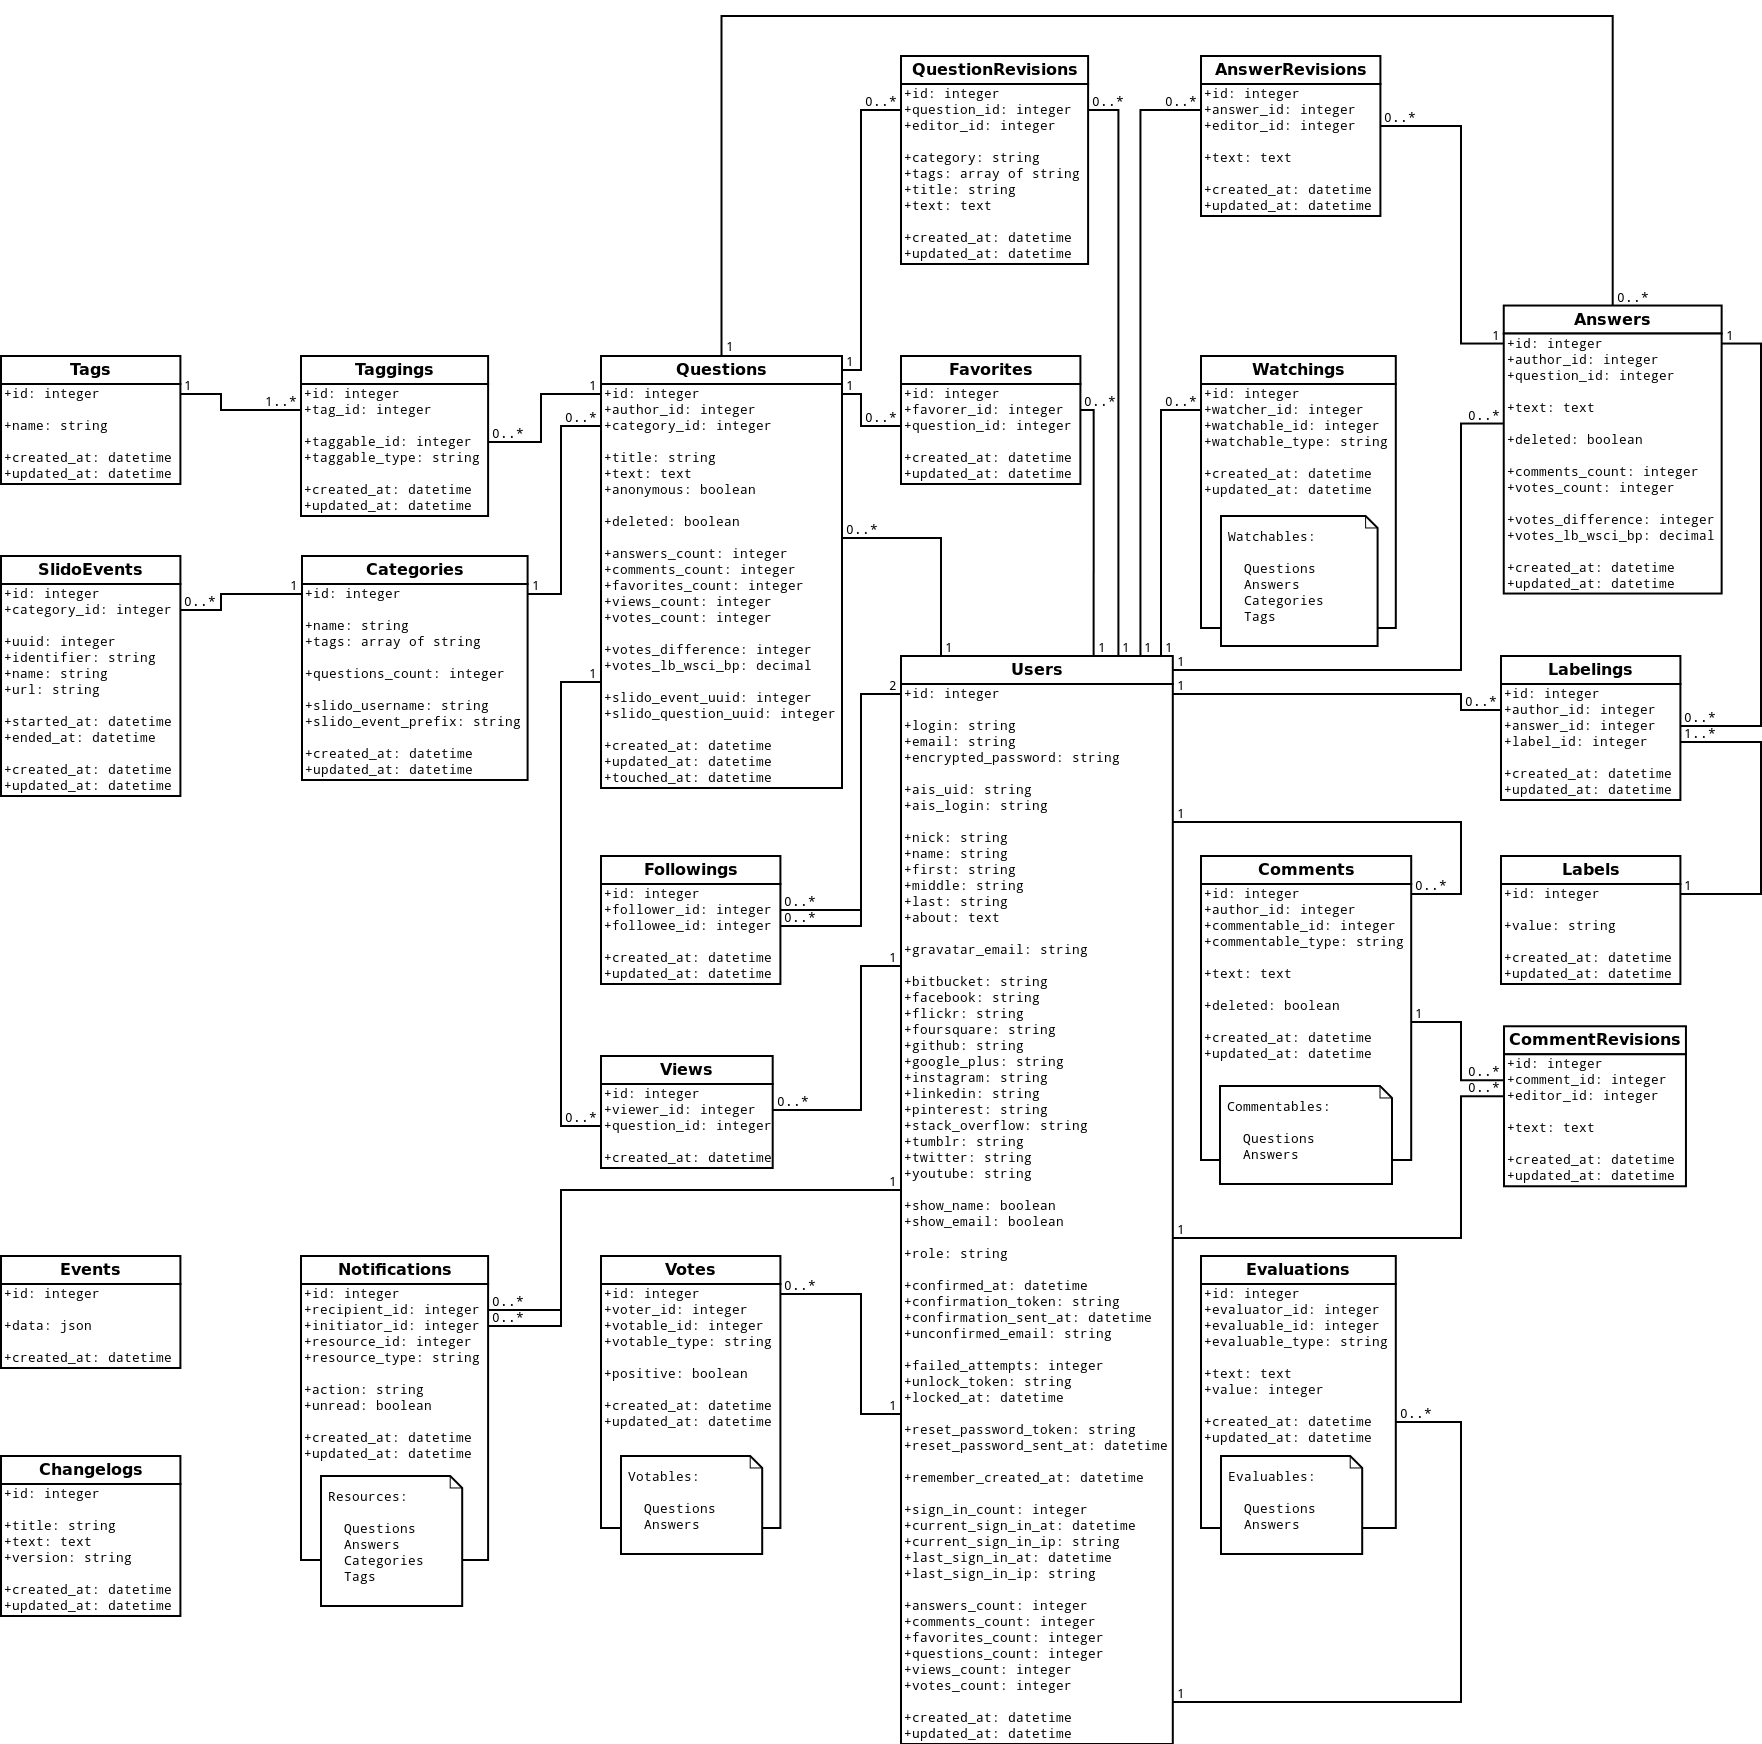
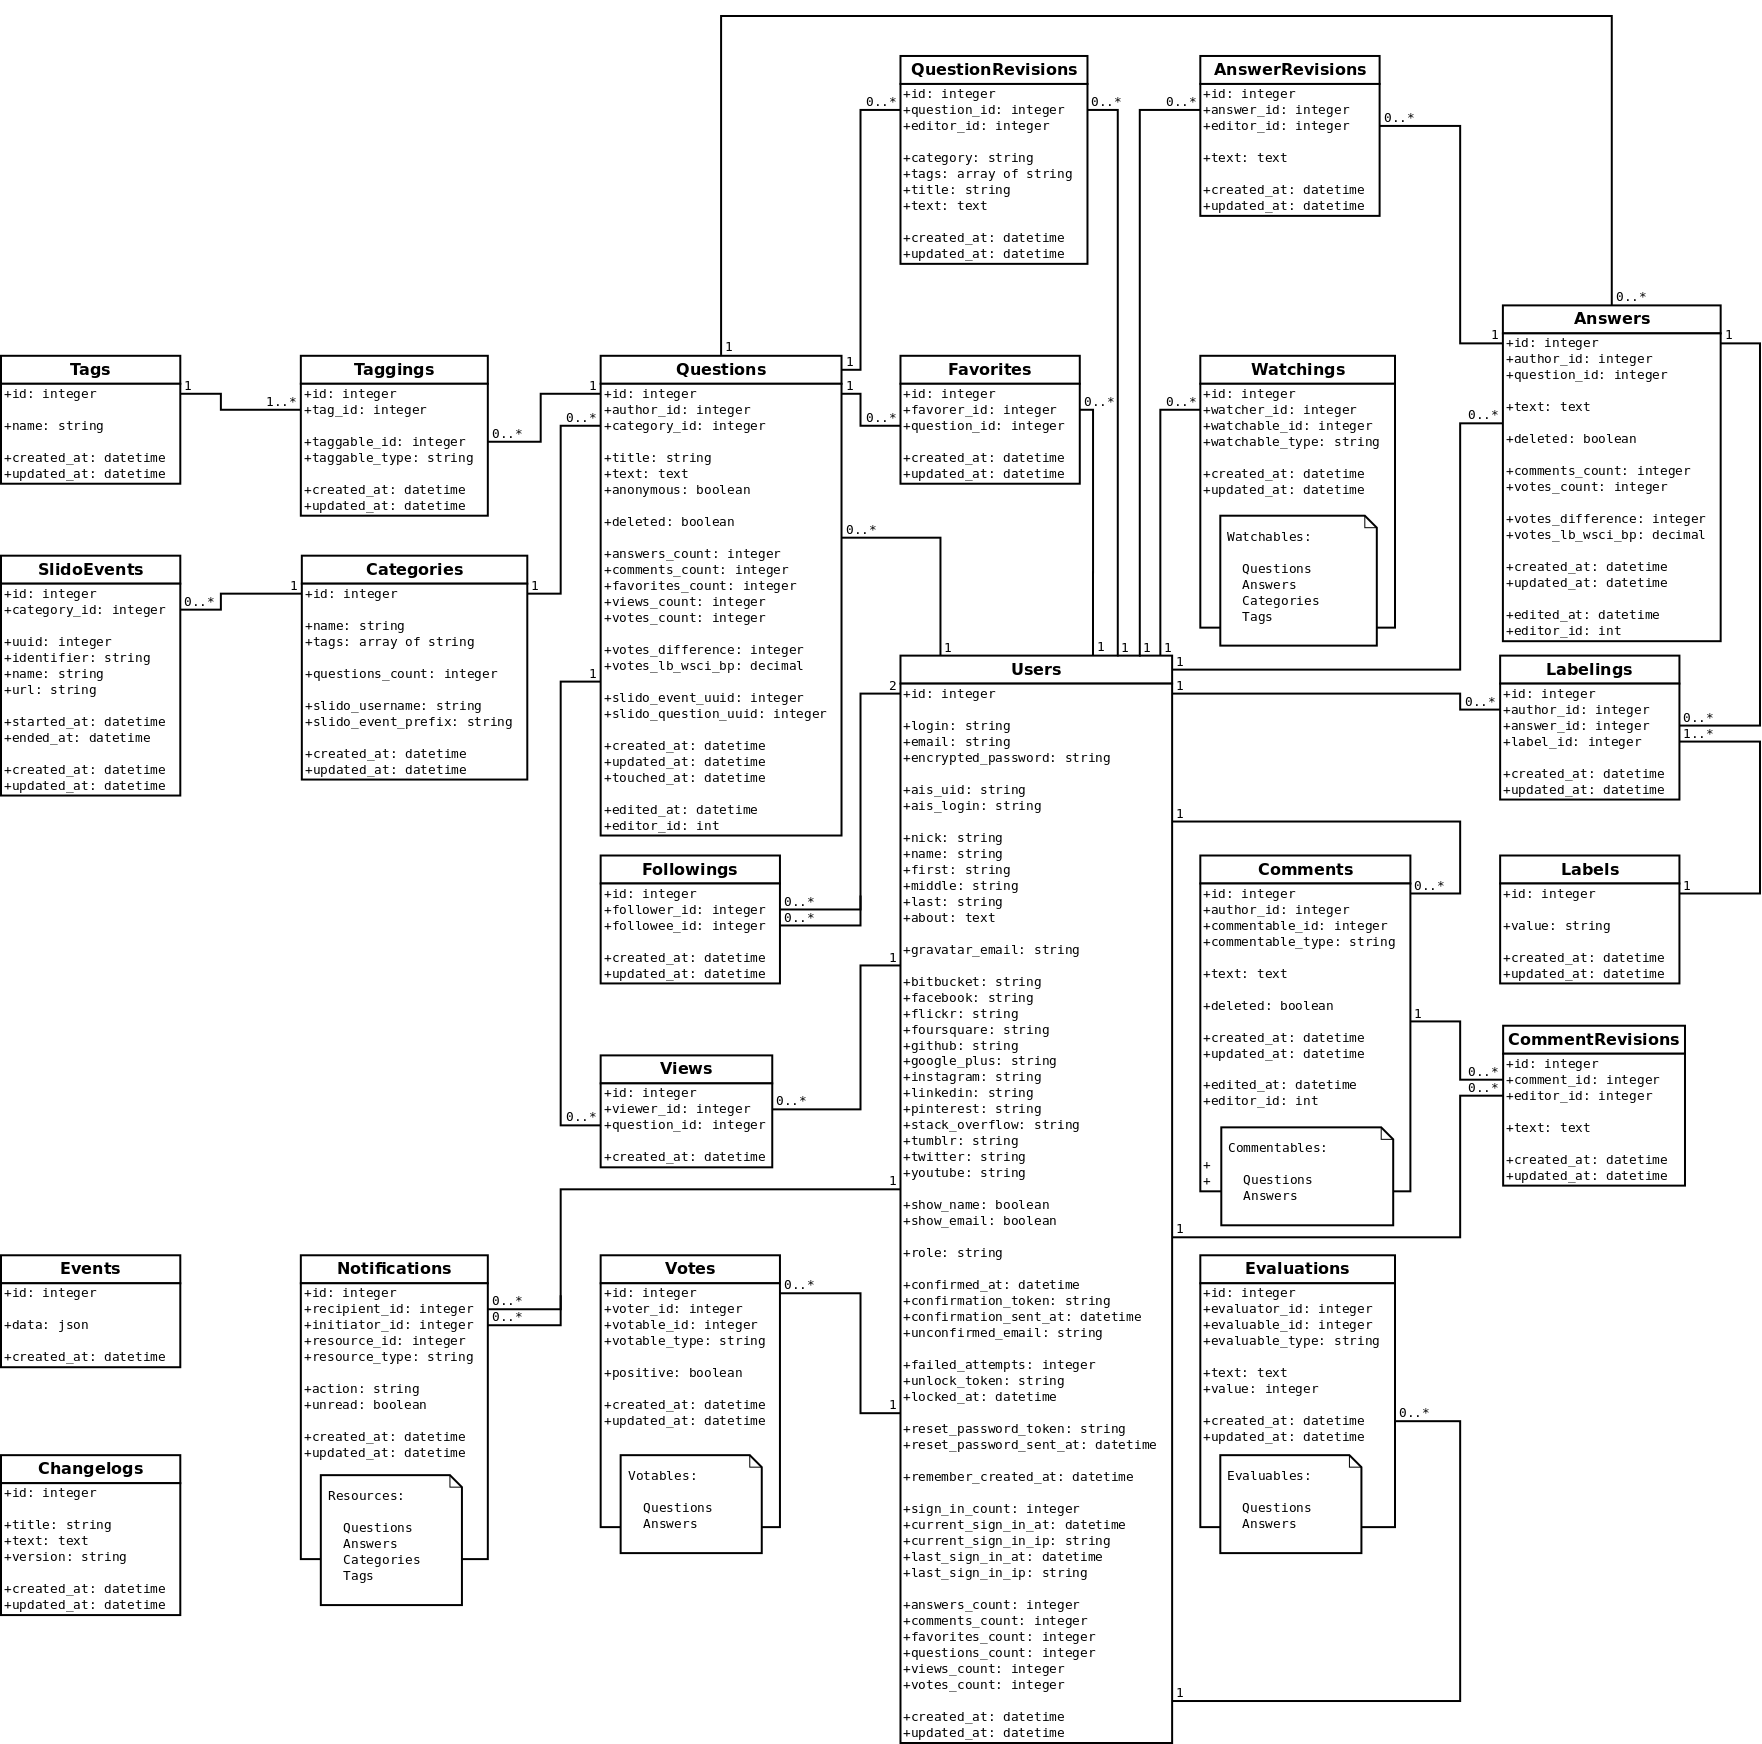
Add migration to add edited_at and editor

diff --git a/db/schema.rb b/db/schema.rb
@@ -11,7 +11,7 @@
 #
 # It's strongly recommended that you check this file into your version control system.
 
-ActiveRecord::Schema.define(version: 20140305114254) do
+ActiveRecord::Schema.define(version: 20140310223035) do
 
   # These are extensions that must be enabled in order to support this database
   enable_extension "plpgsql"
@@ -38,6 +38,8 @@ ActiveRecord::Schema.define(version: 20140305114254) do
     t.integer  "votes_count",                                default: 0,     null: false
     t.boolean  "deleted",                                    default: false, null: false
     t.decimal  "votes_lb_wsci_bp", precision: 13, scale: 12, default: 0.0,   null: false
+    t.datetime "edited_at"
+    t.integer  "editor_id"
   end
 
   add_index "answers", ["author_id"], name: "index_answers_on_author_id", using: :btree
@@ -89,6 +91,8 @@ ActiveRecord::Schema.define(version: 20140305114254) do
     t.datetime "created_at"
     t.datetime "updated_at"
     t.boolean  "deleted",          default: false, null: false
+    t.datetime "edited_at"
+    t.integer  "editor_id"
   end
 
   add_index "comments", ["author_id"], name: "index_comments_on_author_id", using: :btree
@@ -207,8 +211,10 @@ ActiveRecord::Schema.define(version: 20140305114254) do
     t.integer  "slido_question_uuid"
     t.integer  "slido_event_uuid"
     t.boolean  "deleted",                                       default: false,                 null: false
-    t.decimal  "votes_lb_wsci_bp",    precision: 13, scale: 12, default: 0.0,                   null: false
     t.datetime "touched_at",                                    default: '2000-01-01 00:00:00', null: false
+    t.decimal  "votes_lb_wsci_bp",    precision: 13, scale: 12, default: 0.0,                   null: false
+    t.datetime "edited_at"
+    t.integer  "editor_id"
   end
 
   add_index "questions", ["author_id"], name: "index_questions_on_author_id", using: :btree

diff --git a/db/migrate/20140310223035_add_edited_at_and_editor_to_editables.rb b/db/migrate/20140310223035_add_edited_at_and_editor_to_editables.rb
@@ -1,0 +1,11 @@
+class AddEditedAtAndEditorToEditables < ActiveRecord::Migration
+  def change
+    add_column :questions, :edited_at, :datetime, null: true
+    add_column :answers,   :edited_at, :datetime, null: true
+    add_column :comments,  :edited_at, :datetime, null: true
+
+    add_reference :questions, :editor, null: true
+    add_reference :answers,   :editor, null: true
+    add_reference :comments,  :editor, null: true
+  end
+end

diff --git a/app/models/concerns/editable.rb b/app/models/concerns/editable.rb
@@ -1,11 +1,13 @@
 module Editable
   extend ActiveSupport::Concern
 
-  def edited_at
-    revisions.last.created_at
+  included do
+    belongs_to :editor, class_name: :User
   end
 
-  def edited_by
-    revisions.last.editor
+  def update_edited!(revision)
+    self.editor = revision.editor
+    self.edited_at = revision.created_at
+    save!
   end
 end

diff --git a/app/models/comment_revision.rb b/app/models/comment_revision.rb
@@ -10,5 +10,6 @@ class CommentRevision < ActiveRecord::Base
     revision.text    = comment.text
 
     revision.save!
+    comment.update_edited! revision
   end
 end

diff --git a/app/models/question_revision.rb b/app/models/question_revision.rb
@@ -13,5 +13,6 @@ class QuestionRevision < ActiveRecord::Base
     revision.question = question
 
     revision.save!
+    question.update_edited! revision
   end
 end

diff --git a/app/models/answer_revision.rb b/app/models/answer_revision.rb
@@ -10,6 +10,6 @@ class AnswerRevision < ActiveRecord::Base
     revision.text   = answer.text
 
     revision.save!
+    answer.update_edited! revision
   end
-
 end
